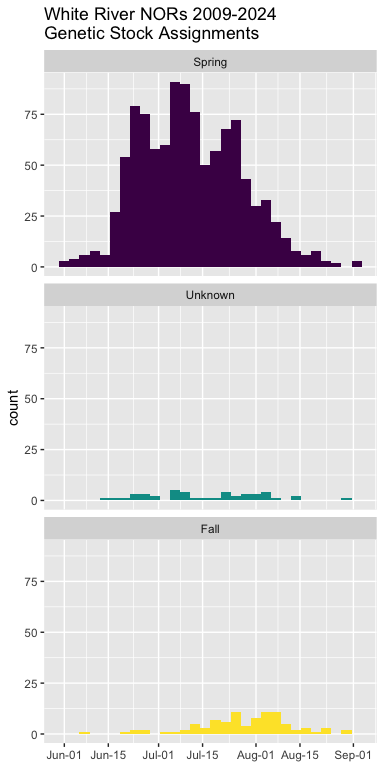
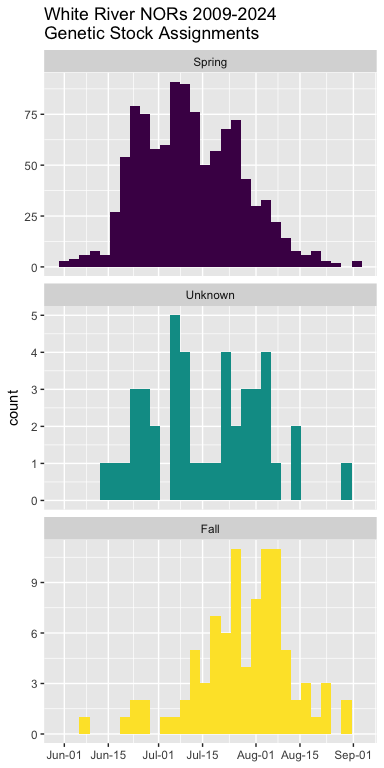
edit links

diff --git a/ancestry-models3.md b/ancestry-models3.md
@@ -7,7 +7,7 @@ analysis. It is very similar to the [2nd
 version](https://github.com/tylermccraney/Puyallup-White/blob/main/ancestry-models2.md)
 except for a single locus *Ots_u07-07.161* that was removed because of
 null alleles detected in the [2nd
-version](https://github.com/tylermccraney/Puyallup-White/blob/main/delta-fst-test2.R)
+version](https://github.com/tylermccraney/Puyallup-White/blob/main/scripts/delta-fst-test2.R)
 of $\Delta F_{\text{ST}}$ analyses. The ADMIXTURE plots from version 2
 and 3 look identical, but the classifications changed by a few counts.
 
